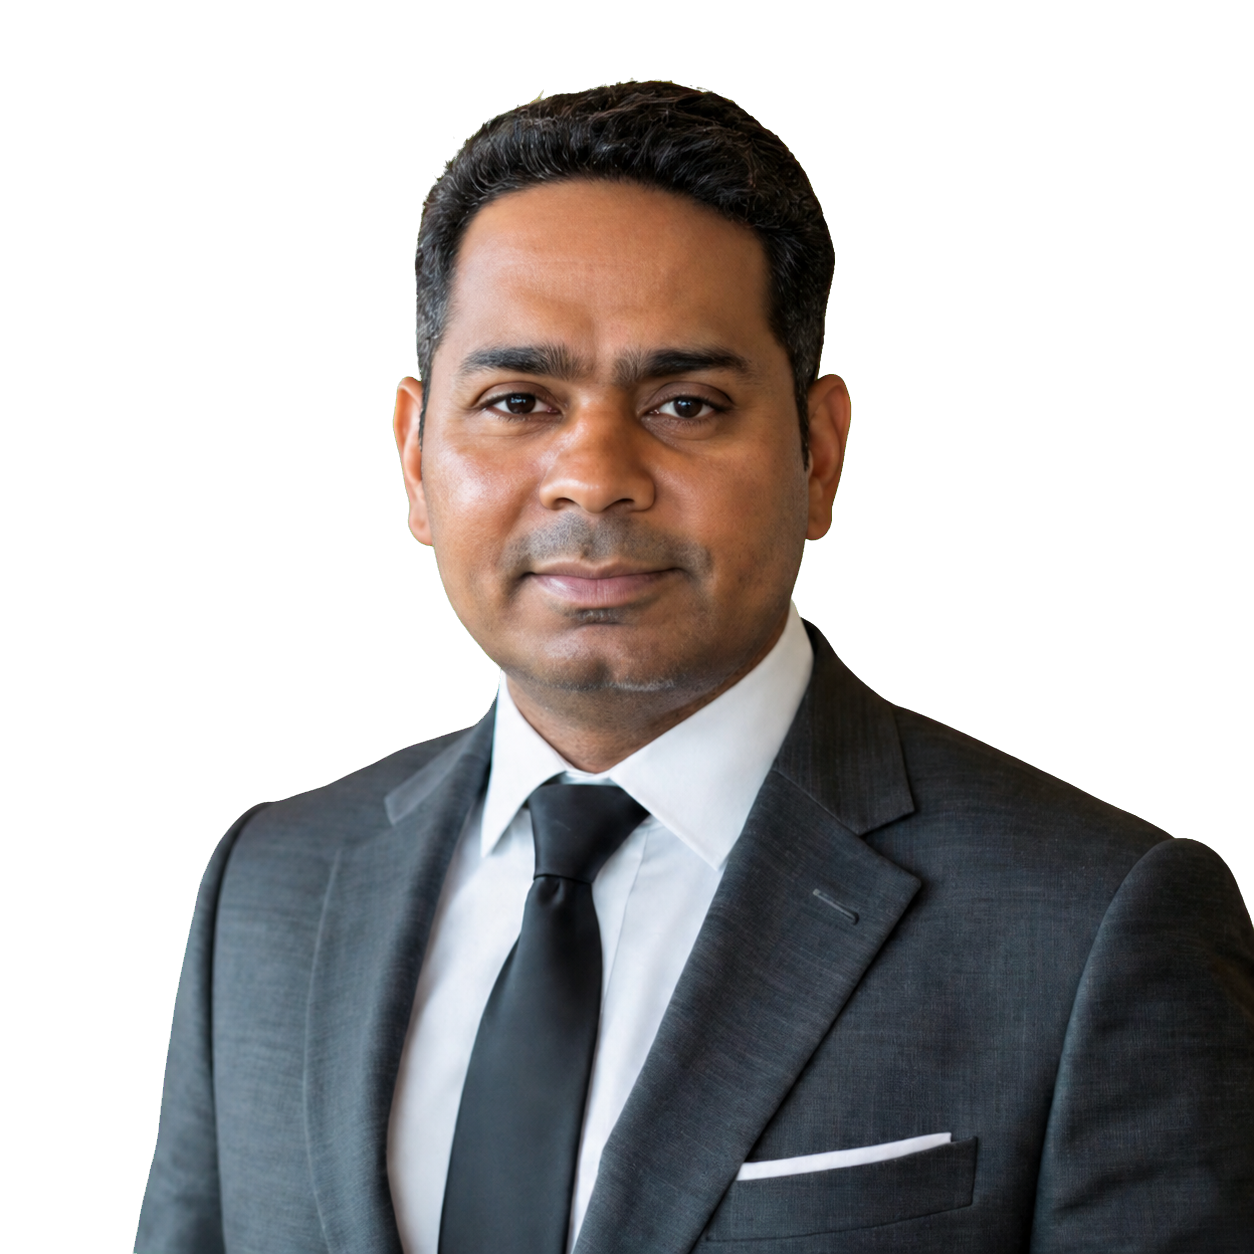
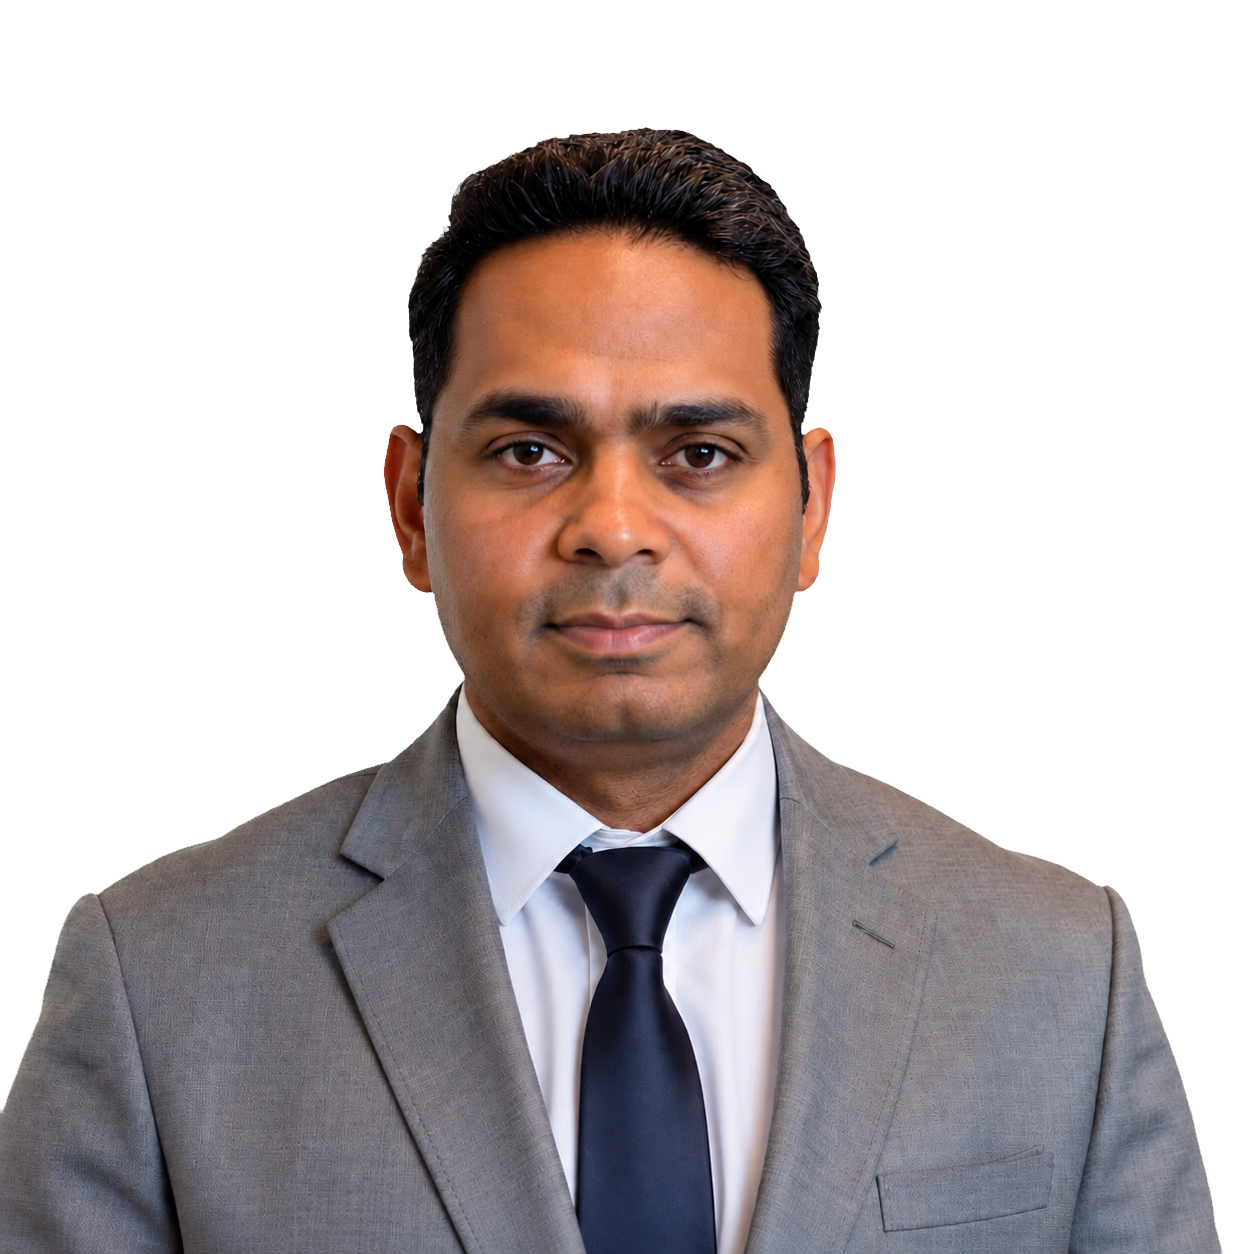
schedule update

diff --git a/src/Layouts/Speakers/KeynoteSpeakers.jsx b/src/Layouts/Speakers/KeynoteSpeakers.jsx
@@ -3,14 +3,61 @@ import { BookOpenText, Mic2 } from 'lucide-react';
 import SpeakerBioDialog from './SpeakerBioDialog';
 import { speakerRoster } from './speakerData';
 
+const SpeakerCard = ({ speaker, index, eager, onOpenBio }) => (
+  <article className="group flex h-full flex-col overflow-hidden rounded-lg border border-slate-300 bg-white shadow-[0_12px_30px_rgba(15,35,42,0.06)] transition duration-300 hover:-translate-y-1 hover:border-slate-400 hover:shadow-[0_18px_38px_rgba(15,35,42,0.11)]">
+    <figure
+      className={`relative aspect-[4/3] overflow-hidden ${
+        index % 2 === 0 ? 'bg-[#dce9e8]' : 'bg-[#e7eaee]'
+      }`}
+    >
+      <img
+        src={speaker.image}
+        alt={`Portrait of ${speaker.name}`}
+        loading={eager ? 'eager' : 'lazy'}
+        className="absolute inset-0 h-full w-full object-contain object-bottom transition-transform duration-500 ease-out group-hover:scale-[1.025]"
+      />
+    </figure>
+
+    <div className="flex flex-1 flex-col p-5 sm:p-6">
+      <p className={`text-xs font-semibold ${speaker.role === 'Chief Guest' ? 'text-[#d34a44]' : 'text-[#0a7784]'}`}>
+        {speaker.role}
+      </p>
+      <h4 className="mt-3 text-xl font-bold leading-tight text-[#071820]">{speaker.name}</h4>
+      <p className="mt-4 text-sm font-semibold leading-6 text-slate-900">{speaker.designation}</p>
+      <div className="mt-1 space-y-2 text-sm leading-5 text-slate-600">
+        {speaker.affiliations.map((affiliation) => (
+          <p key={affiliation}>{affiliation}</p>
+        ))}
+      </div>
+
+      {speaker.bio && (
+        <div className="mt-auto pt-6">
+          <button
+            type="button"
+            onClick={() => onOpenBio(speaker)}
+            aria-haspopup="dialog"
+            aria-controls="speaker-bio-dialog"
+            className="inline-flex min-h-10 items-center justify-center gap-2 rounded-md border border-[#0a7784]/35 px-4 py-2 text-sm font-semibold text-[#0a6670] transition hover:border-[#0a7784] hover:bg-[#e8f3f2] hover:text-[#074f57] focus-visible:outline-none focus-visible:ring-2 focus-visible:ring-[#0a7784] focus-visible:ring-offset-2"
+          >
+            <BookOpenText className="h-4 w-4" aria-hidden="true" />
+            Bio
+          </button>
+        </div>
+      )}
+    </div>
+  </article>
+);
+
 const KeynoteSpeakers = () => {
   const [activeBio, setActiveBio] = useState(null);
   const closeBio = useCallback(() => setActiveBio(null), []);
+  const dignitaries = speakerRoster.slice(0, 2);
+  const keynoteSpeakers = speakerRoster.slice(2);
 
   return (
     <section id="invited-lineup" className="scroll-mt-20 bg-[#f3f6f5]" aria-labelledby="lineup-heading">
       <div className="mx-auto max-w-7xl px-4 py-14 sm:px-6 md:py-20 lg:px-8">
-        <header className="mb-10 grid gap-5 lg:grid-cols-[1fr_auto] lg:items-end">
+        <header className="mb-10">
           <div>
             <p className="flex items-center gap-3 text-sm font-semibold text-[#0a7784]">
               <Mic2 className="h-4 w-4" aria-hidden="true" />
@@ -20,59 +67,36 @@ const KeynoteSpeakers = () => {
               Dignitaries &amp; keynote speakers
             </h2>
           </div>
-          <p className="text-sm font-semibold text-slate-500 lg:pb-1">
-            8 invited guests · 23 July 2026
-          </p>
         </header>
 
-        <div className="grid grid-cols-1 gap-5 md:grid-cols-2 xl:grid-cols-4">
-          {speakerRoster.map((speaker, index) => (
-            <article
-              key={speaker.name}
-              className="group flex h-full flex-col overflow-hidden rounded-lg border border-slate-300 bg-white shadow-[0_12px_30px_rgba(15,35,42,0.06)] transition duration-300 hover:-translate-y-1 hover:border-slate-400 hover:shadow-[0_18px_38px_rgba(15,35,42,0.11)]"
-            >
-              <figure
-                className={`relative aspect-[4/3] overflow-hidden ${
-                  index % 2 === 0 ? 'bg-[#dce9e8]' : 'bg-[#e7eaee]'
-                }`}
-              >
-                <img
-                  src={speaker.image}
-                  alt={`Portrait of ${speaker.name}`}
-                  loading={index < 4 ? 'eager' : 'lazy'}
-                  className="absolute inset-0 h-full w-full object-contain object-bottom transition-transform duration-500 ease-out group-hover:scale-[1.025]"
-                />
-              </figure>
+        <div className="mx-auto max-w-4xl">
+          <h3 className="text-sm font-semibold text-[#0a7784]">Dignitaries</h3>
+          <div className="mt-5 grid grid-cols-1 gap-5 md:grid-cols-2">
+            {dignitaries.map((speaker, index) => (
+              <SpeakerCard
+                key={speaker.name}
+                speaker={speaker}
+                index={index}
+                eager
+                onOpenBio={setActiveBio}
+              />
+            ))}
+          </div>
+        </div>
 
-              <div className="flex flex-1 flex-col p-5 sm:p-6">
-                <p className={`text-xs font-semibold ${index === 0 ? 'text-[#d34a44]' : 'text-[#0a7784]'}`}>
-                  {speaker.role}
-                </p>
-                <h3 className="mt-3 text-xl font-bold leading-tight text-[#071820]">{speaker.name}</h3>
-                <p className="mt-4 text-sm font-semibold leading-6 text-slate-900">{speaker.designation}</p>
-                <div className="mt-1 space-y-2 text-sm leading-5 text-slate-600">
-                  {speaker.affiliations.map((affiliation) => (
-                    <p key={affiliation}>{affiliation}</p>
-                  ))}
-                </div>
-
-                {speaker.bio && (
-                  <div className="mt-auto pt-6">
-                    <button
-                      type="button"
-                      onClick={() => setActiveBio(speaker)}
-                      aria-haspopup="dialog"
-                      aria-controls="speaker-bio-dialog"
-                      className="inline-flex min-h-10 items-center justify-center gap-2 rounded-md border border-[#0a7784]/35 px-4 py-2 text-sm font-semibold text-[#0a6670] transition hover:border-[#0a7784] hover:bg-[#e8f3f2] hover:text-[#074f57] focus-visible:outline-none focus-visible:ring-2 focus-visible:ring-[#0a7784] focus-visible:ring-offset-2"
-                    >
-                      <BookOpenText className="h-4 w-4" aria-hidden="true" />
-                      Bio
-                    </button>
-                  </div>
-                )}
-              </div>
-            </article>
-          ))}
+        <div className="mt-12 border-t border-slate-300 pt-10">
+          <h3 className="text-sm font-semibold text-[#0a7784]">Keynote Speakers</h3>
+          <div className="mt-5 grid grid-cols-1 gap-5 md:grid-cols-2 xl:grid-cols-4">
+            {keynoteSpeakers.map((speaker, index) => (
+              <SpeakerCard
+                key={speaker.name}
+                speaker={speaker}
+                index={index}
+                eager={index < 2}
+                onOpenBio={setActiveBio}
+              />
+            ))}
+          </div>
         </div>
       </div>
 

diff --git a/src/Layouts/Speakers/onlineKeynoteData.js b/src/Layouts/Speakers/onlineKeynoteData.js
@@ -29,4 +29,39 @@ export const onlineKeynoteSpeakers = [
       'His research focuses on broadband indoor optical wireless communication and software-defined communication systems.',
     ],
   },
+  {
+    name: 'Prof. Mohanad Alfiras',
+    role: 'Online Speaker',
+    designation: 'President',
+    affiliations: ['Gulf University, Kingdom of Bahrain'],
+    image: '/images/online-keynote-speakers/mohanad-alfiras.png',
+    imageClassName: 'object-cover object-top',
+    bio: [
+      'Professor Mohanad Alfiras is President of Gulf University in the Kingdom of Bahrain. An engineer and experienced higher education administrator, he leads the university’s academic and institutional strategy. His leadership supports academic excellence, regional impact, and the continued development of higher education in Bahrain.',
+      'He earned a B.Sc. (Honors) in Electrical and Electronic Engineering from the University of Technology, Iraq, in 1998. He completed his M.Sc. and Ph.D. in Communication System Engineering at the same institution in 2000 and 2006, respectively. He also holds a Ph.D. in Education Technology from Brunel University London, UK.',
+      'Professor Alfiras joined Gulf University in 2006 as an Assistant Professor in the Department of Computer Communication Engineering. He became Head of the department in 2008 and later served as Dean of Admissions and Registration. He was appointed Acting President in 2015 and President in 2017.',
+      'He has authored or co-authored more than 80 peer-reviewed research publications, presented papers at numerous conferences, and served as a keynote speaker at many conferences and events. He received a Principal Fellow Certificate from the Higher Education Academy in 2018 and was appointed full Professor in April 2021.',
+    ],
+    highlights: {
+      title: 'Patents and inventions',
+      intro: 'Professor Alfiras holds five internationally registered patents and industrial designs across the United Kingdom, India, and Germany:',
+      items: [
+        {
+          title: 'AI-Based Safety and Health Devices (2025)',
+          description: 'Devices for fraud-call detection, doctors’ location tracking, and real-time health problem detection.',
+        },
+        {
+          title: 'Autonomous Agricultural Field Robot (2026)',
+          description: 'An autonomous system designed to support smart agriculture and field operations.',
+        },
+        {
+          title: 'Solar-Powered Cyber Car (2026)',
+          description: 'A sustainable transportation concept combining solar energy with intelligent vehicle technology.',
+        },
+      ],
+    },
+    bioClosing: [
+      'These innovations reflect Gulf University’s commitment to artificial intelligence, smart agriculture, and sustainable transportation.',
+    ],
+  },
 ];

diff --git a/src/Layouts/Speakers/speakerData.js b/src/Layouts/Speakers/speakerData.js
@@ -68,31 +68,6 @@ export const speakerRoster = [
   },
   {
     order: '03',
-    name: 'Dr. Pankaj Kumar Rawat',
-    role: 'Guest of Honour / Keynote Speaker',
-    designation: 'Scientist E',
-    affiliations: ['ANRF'],
-    image: '/images/keynote-speakers/portrait-uniform/pankaj-kumar-rawat.png',
-    bio: [
-      'Dr. Pankaj Rawat is currently serving the Science and Engineering Research Board (SERB) as Scientist-D. He has more than five years of professional experience in scientific R&D management. In his current role, he is the program officer for Core Research Grant (CRG) in Civil, Mechanical, Materials Engineering and related areas, Uchhatar Avishkar Yojana (UAY), National Science Chair (NSC), and Accelerate Vigyan (AV).',
-      'Prior to his current role, he was a postdoctoral researcher at Yonsei University, Seoul, South Korea. He earned his M.Sc. in Physics from Kumaun University, Nainital, and his M.Tech. and Ph.D. in Materials Science and Engineering from the Indian Institute of Technology Kharagpur. He has published several research papers on thermoelectric materials in internationally reputed journals from ACS, RSC, IOP, Wiley, and Elsevier.',
-      'Dr. Rawat is a recipient of awards including the Brain Korea 21 Postdoctoral Fellowship, DST-INSPIRE Faculty Award, and Japan-Asia Youth Exchange Program in Science.',
-    ],
-  },
-  {
-    order: '04',
-    name: 'Dr. Pramod Kumar Prasad',
-    role: 'Guest of Honour / Keynote Speaker',
-    designation: 'Scientist E',
-    affiliations: ['ANRF'],
-    image: '/images/keynote-speakers/portrait-uniform/pramod-kumar-prasad.png',
-    bio: [
-      'Dr. Pramod Kumar Prasad is working as Scientist-D at the Science and Engineering Research Board (SERB), a statutory body of the Department of Science and Technology, Government of India. He was awarded a Ph.D. in Biotechnology and Bioinformatics from North-Eastern Hill University (a Central University), Shillong, Meghalaya. He is presently working as Program Officer for the implementation of Young Scientist - Life Sciences (YSS, ECRA, SRG, and NPDF), SERB-STAR, SERB-DIA, SERB-TETRA, and PAC-Organismal and Evolutionary Biology - Animal Sciences. Prior to joining SERB, he was involved in implementing the Internship and Faculty Award components of the Innovation in Science Pursuit for Inspired Research (INSPIRE) program of DST.',
-      'His research covers the fields of Molecular Biology, Parasitology, and Bioinformatics. His Ph.D. work provided PCR-based diagnostic markers for species discrimination of zoonotic trematode parasites, supporting accurate diagnosis and the development of novel therapeutic and preventive strategies. He has filed a national patent for this work. It also resulted in 18 research papers in high-impact international and national journals and 42 DNA sequences in GenBank.',
-    ],
-  },
-  {
-    order: '05',
     name: 'Paulina Muszyńska',
     role: 'Keynote Speaker',
     designation: 'Head of Development Projects Department',
@@ -108,7 +83,7 @@ export const speakerRoster = [
     ],
   },
   {
-    order: '06',
+    order: '04',
     name: 'Shri Akash Takyar',
     role: 'Keynote Speaker',
     designation: 'Founder and CEO',
@@ -121,7 +96,7 @@ export const speakerRoster = [
     ],
   },
   {
-    order: '07',
+    order: '05',
     name: 'Dr. Ankit Agrawal',
     role: 'Keynote Speaker',
     designation: 'Research Professor, Department of ECE',
@@ -134,7 +109,7 @@ export const speakerRoster = [
     ],
   },
   {
-    order: '08',
+    order: '06',
     name: 'Dr. Yash Chawla',
     role: 'Keynote Speaker',
     designation: 'Founder and Head of CRAFT',

diff --git a/src/Layouts/Speakers/panelDiscussionData.js b/src/Layouts/Speakers/panelDiscussionData.js
@@ -2,24 +2,10 @@ export const panelDiscussion = {
   theme: 'AI Agents: Transforming Industry, Academia, and the Future of Intelligent Work',
   date: 'Friday, 24 July 2026',
   time: '9:30 AM – 10:30 AM (IST)',
-  moderator: {
-    name: 'Dr. Yash Chawla',
-    role: 'Moderator',
-    designation: 'Founder & Head, CRAFT',
-    affiliations: [
-      'Faculty of Management, Wroclaw University of Science and Technology, Poland',
-    ],
-    image: '/images/keynote-speakers/portrait-uniform/yash-chawla.png',
-    imageClassName: 'object-contain object-bottom',
-    bio: [
-      'Dr. Yash Chawla is the Founder of CRAFT (Collaboratory for Responsible and Future Technologies) and Deputy Head of the Department of Computational Social Science at the Faculty of Management, Wrocław University of Science and Technology. His research, teaching, and consulting focus on the societal impact of DeepTech, responsible innovation, and sustainability.',
-      'He has received prestigious recognitions including the Scholarship of the Polish Minister of Science and Higher Education for Outstanding Young Scientists and the Interstudent 2021 award. He leads international projects on the circular economy, including the MoSAic project, and contributes to European research and consulting initiatives. He actively promotes interdisciplinary collaboration and responsible technology adoption.',
-    ],
-  },
   panelists: [
     {
       name: 'Mr. Yogesh Sharma',
-      role: 'Distinguished Panelist',
+      role: 'Moderator',
       designation: 'Co-Founder & Chairperson, Mamsys World',
       affiliations: [
         'Author, The Slim Elephant',

diff --git a/src/Layouts/Speakers/OnlineKeynoteSpeakers.jsx b/src/Layouts/Speakers/OnlineKeynoteSpeakers.jsx
@@ -16,7 +16,7 @@ const OnlineKeynoteSpeakers = () => {
           ICCISD 2026 virtual programme
         </p>
         <h2 id="online-keynote-heading" className="mt-4 text-3xl font-bold leading-tight sm:text-4xl">
-          Online speaker
+          Keynote Speakers for Online Tutorial/ WorkShop
         </h2>
 
         <div className="mt-6 flex flex-wrap gap-x-8 gap-y-4 text-sm">
@@ -44,7 +44,7 @@ const OnlineKeynoteSpeakers = () => {
         </div>
       </header>
 
-      <div className="mt-10 grid max-w-lg grid-cols-1 gap-5">
+      <div className="mt-10 grid max-w-5xl grid-cols-1 gap-5 md:grid-cols-2">
         {onlineKeynoteSpeakers.map((speaker, index) => (
           <article
             key={speaker.name}

diff --git a/src/Layouts/Speakers/PanelDiscussion.jsx b/src/Layouts/Speakers/PanelDiscussion.jsx
@@ -59,8 +59,7 @@ const PanelistCard = ({ panelist, index, onOpenBio }) => (
 const PanelDiscussion = () => {
   const [activeBio, setActiveBio] = useState(null);
   const closeBio = useCallback(() => setActiveBio(null), []);
-  const { moderator } = panelDiscussion;
-  const participants = [moderator, ...panelDiscussion.panelists];
+  const participants = panelDiscussion.panelists;
 
   return (
     <section id="panel-discussion" className="scroll-mt-20 bg-[#e8efee]" aria-labelledby="panel-heading">